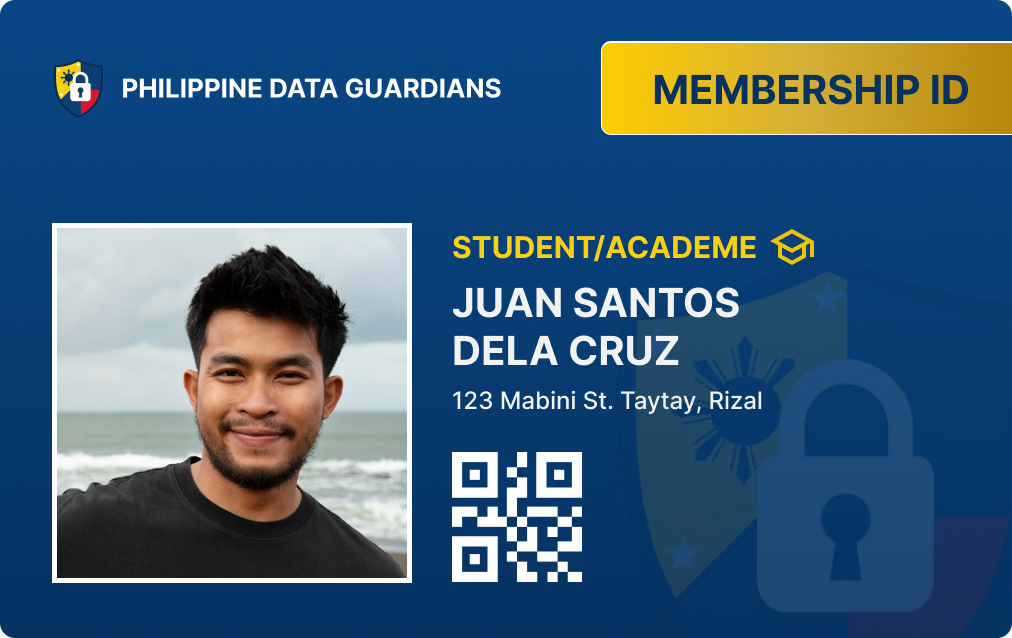
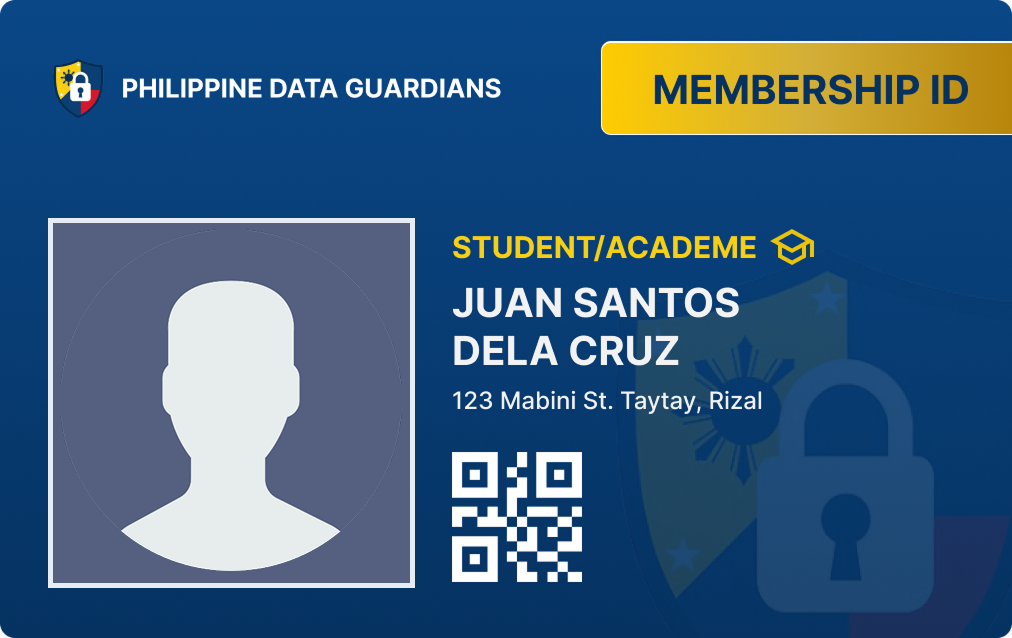
updated benefits, digital id, added partners

Changed region(s): [[0.0306, 0.3276, 0.4289, 0.9232]]

diff --git a/src/features/landing/components/PartnershipSection.tsx b/src/features/landing/components/PartnershipSection.tsx
@@ -1,0 +1,113 @@
+import { motion } from 'framer-motion';
+import { containerVariants, itemVariants } from '@/lib/motion';
+
+import partnerOne from '@/assets/partners/partner_cyber404.webp';
+import partnerTwo from '@/assets/partners/partner_iotconferenceph.png';
+import partnerThree from '@/assets/partners/partner_redwizard.png';
+import partnerFour from '@/assets/partners/partner_numoa.png';
+import partnerFive from '@/assets/partners/partner_olivarezcollege.png';
+import partnerSix from '@/assets/partners/partner_nordvpn.png';
+
+type Partner = {
+  name: string;
+  logo: string;
+  href?: string;
+};
+
+const partners: Partner[] = [
+  { name: 'Cyber 404', logo: partnerOne },
+  { name: 'IoT Conference Ph', logo: partnerTwo },
+  { name: 'Red Wizard Events Technology', logo: partnerThree },
+  { name: 'National University MoA', logo: partnerFour },
+  { name: 'Olivarez College', logo: partnerFive },
+  { name: 'Nord VPN', logo: partnerSix },
+];
+
+const PartnerLogo = ({ partner }: { partner: Partner }) => {
+  const content = (
+    <div className="group/logo relative flex h-24 w-44 shrink-0 items-center justify-center">
+      <img
+        src={partner.logo}
+        alt={partner.name}
+        loading="lazy"
+        draggable={false}
+        className="max-h-14 w-auto max-w-32 object-contain transition duration-300 group-hover/logo:-translate-y-2"
+      />
+      <span
+        aria-hidden="true"
+        className="pointer-events-none absolute inset-x-0 bottom-2 translate-y-1 text-center text-[11px] font-medium tracking-wide text-white/80 opacity-0 transition duration-200 group-hover/logo:translate-y-0 group-hover/logo:opacity-100"
+      >
+        {partner.name}
+      </span>
+    </div>
+  );
+
+  return partner.href ? (
+    <a
+      href={partner.href}
+      target="_blank"
+      rel="noopener noreferrer"
+      aria-label={partner.name}
+      className="shrink-0"
+    >
+      {content}
+    </a>
+  ) : (
+    content
+  );
+};
+
+export const PartnershipSection = () => {
+  return (
+    <section
+      id="partners"
+      className="mx-auto mt-16 max-w-7xl scroll-mt-24 px-4"
+    >
+      <motion.div
+        variants={containerVariants}
+        initial="hidden"
+        whileInView="visible"
+        viewport={{ once: true, amount: 0.2 }}
+      >
+        <motion.div variants={itemVariants} className="mb-8 text-center">
+          <h2 className="text-2xl font-bold text-white md:text-[2.125rem]">
+            Our <span className="text-accent">Partners</span>
+          </h2>
+          <p className="mx-auto mt-3 max-w-2xl text-sm text-white/70 md:text-base">
+            Working together with organizations that share our commitment to
+            data privacy and cybersecurity.
+          </p>
+        </motion.div>
+
+        {/* MARQUEE */}
+        <motion.div
+          variants={itemVariants}
+          className="group overflow-hidden"
+          style={{
+            maskImage:
+              'linear-gradient(to right, transparent, black 10%, black 90%, transparent)',
+            WebkitMaskImage:
+              'linear-gradient(to right, transparent, black 10%, black 90%, transparent)',
+          }}
+        >
+          <div className="flex w-max animate-marquee group-hover:[animation-play-state:paused] motion-reduce:animate-none">
+            {/* Two identical groups = seamless loop. The second is decorative. */}
+            {[0, 1].map((copy) => (
+              <div
+                key={copy}
+                className="flex shrink-0 gap-4 pr-4"
+                aria-hidden={copy === 1}
+              >
+                {partners.map((partner) => (
+                  <PartnerLogo key={`${copy}-${partner.name}`} partner={partner} />
+                ))}
+              </div>
+            ))}
+          </div>
+        </motion.div>
+      </motion.div>
+    </section>
+  );
+};
+
+export default PartnershipSection;

diff --git a/src/features/landing/components/JoinCommunitySection/JoinCommunity.tsx b/src/features/landing/components/JoinCommunitySection/JoinCommunity.tsx
@@ -1,7 +1,10 @@
 import { motion } from 'framer-motion';
 import { containerVariants, itemVariants } from '@/lib/motion';
 import { MembershipTypes } from './MembershipTypes';
+
 import MembershipIDCard from '@/assets/membership-card.png';
+import { Smartphone } from 'lucide-react';
+
 
 export const JoinCommunitySection = () => {
   return (
@@ -56,13 +59,21 @@ export const JoinCommunitySection = () => {
           whileInView={{ opacity: 1, y: 0 }}
           viewport={{ once: true, amount: 0.2 }}
           transition={{ duration: 0.6, ease: 'easeOut' }}
-          className="flex items-center justify-center rounded-2xl border border-white/10 bg-white/5 p-5 backdrop-blur-[10px] transition-colors duration-300 hover:border-white/20 md:col-start-3 md:row-start-1"
+          className="flex flex-col items-center justify-center gap-3 rounded-2xl border border-white/10 bg-white/5 p-5 backdrop-blur-[10px] transition-colors duration-300 hover:border-white/20 md:col-start-3 md:row-start-1"
         >
-          <img
-            src={MembershipIDCard}
-            alt="Philippine Data Guardians membership ID card"
-            className="block w-full rounded-lg shadow-[0px_4px_12px_rgba(0,0,0,0.4)]"
-          />
+          <div className="relative w-full">
+            <img
+              src={MembershipIDCard}
+              alt="Philippine Data Guardians digital membership ID card"
+              className="block w-full rounded-lg shadow-[0px_4px_12px_rgba(0,0,0,0.4)]"
+            />
+          </div>
+
+          {/* Caption */}
+          <p className="flex items-center gap-1.5 text-center text-[11px] text-white/50">
+            <Smartphone className="h-3 w-3" aria-hidden="true" />
+            Digital membership ID. No physical card is issued.
+          </p>
         </motion.div>
 
         {/* MEMBERSHIP TYPES */}

diff --git a/src/features/landing/pages/LandingPage.tsx b/src/features/landing/pages/LandingPage.tsx
@@ -8,6 +8,7 @@ import Services from "../components/ServicesSection";
 import DataBreachSection from "../components/DataBreachSection";
 import ContactSection from "../components/ContactSection";
 import Footer from "../components/Footer";
+import PartnershipSection from "../components/PartnershipSection";
 
 
 function LandingPage () {
@@ -21,6 +22,7 @@ function LandingPage () {
       <MembershipTiers/>
       <Services/>
       <DataBreachSection/>
+      <PartnershipSection/>
       <ContactSection/>
       <Footer/>
       <ScrollToTopButton/>

diff --git a/src/features/landing/components/MembershipTiersSection/TierCard.tsx b/src/features/landing/components/MembershipTiersSection/TierCard.tsx
@@ -38,7 +38,8 @@ const getInitialBenefits = (tier: string) => {
     "Access to free training sessions",
     "Free certificates",
     "Announcements on free events",
-    "PDG T-shirt and Membership ID",
+    "Digital Membership ID",
+    "Membership Voucher Code for Certified Cybersecurity Associate (CCA) and Certified Security Operations Professional (CSOP)"
   ];
   const professionalBenefits = [
     "All Student/Academic benefits",

diff --git a/src/styles/global.css b/src/styles/global.css
@@ -41,6 +41,15 @@
   --transition: 200ms cubic-bezier(0.4, 0, 0.2, 1);
 }
 
+@theme {
+  --animate-marquee: marquee 30s linear infinite;
+
+  @keyframes marquee {
+    from { transform: translateX(0); }
+    to { transform: translateX(-50%); }
+  }
+}
+
 @theme inline {
   --color-bg: var(--color-bg);
   --color-surface: var(--color-surface);
